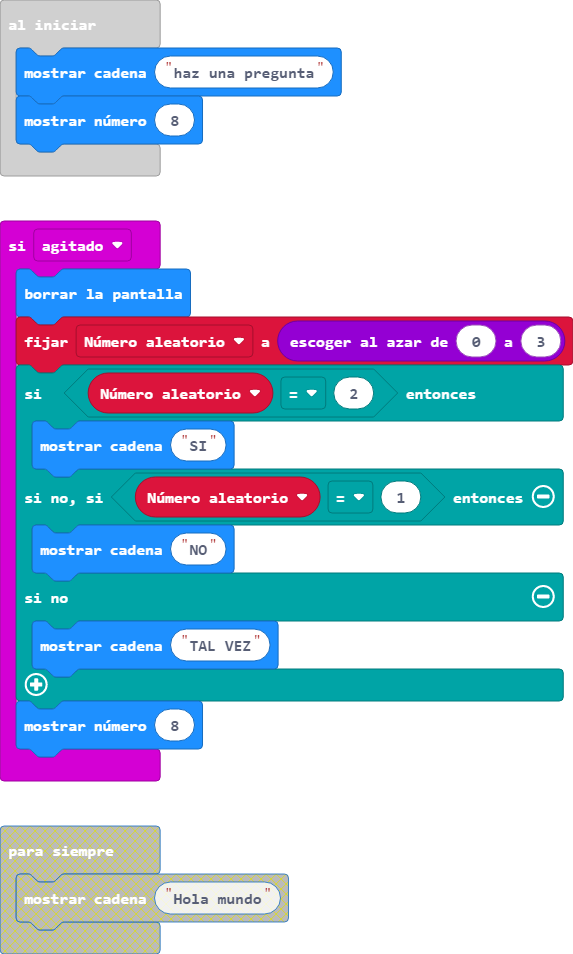
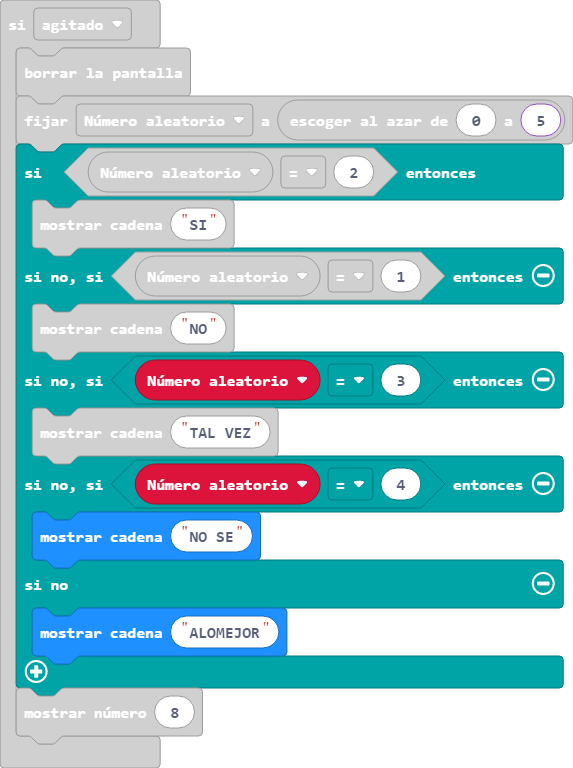
Actualizar main.blocks, main.ts

diff --git a/main.ts b/main.ts
@@ -1,12 +1,16 @@
 input.onGesture(Gesture.Shake, function () {
     basic.clearScreen()
-    Número_aleatorio = randint(0, 3)
+    Número_aleatorio = randint(0, 5)
     if (Número_aleatorio == 2) {
         basic.showString("SI")
     } else if (Número_aleatorio == 1) {
         basic.showString("NO")
-    } else {
+    } else if (Número_aleatorio == 3) {
         basic.showString("TAL VEZ")
+    } else if (Número_aleatorio == 4) {
+        basic.showString("NO SE")
+    } else {
+        basic.showString("ALOMEJOR")
     }
     basic.showNumber(8)
 })
